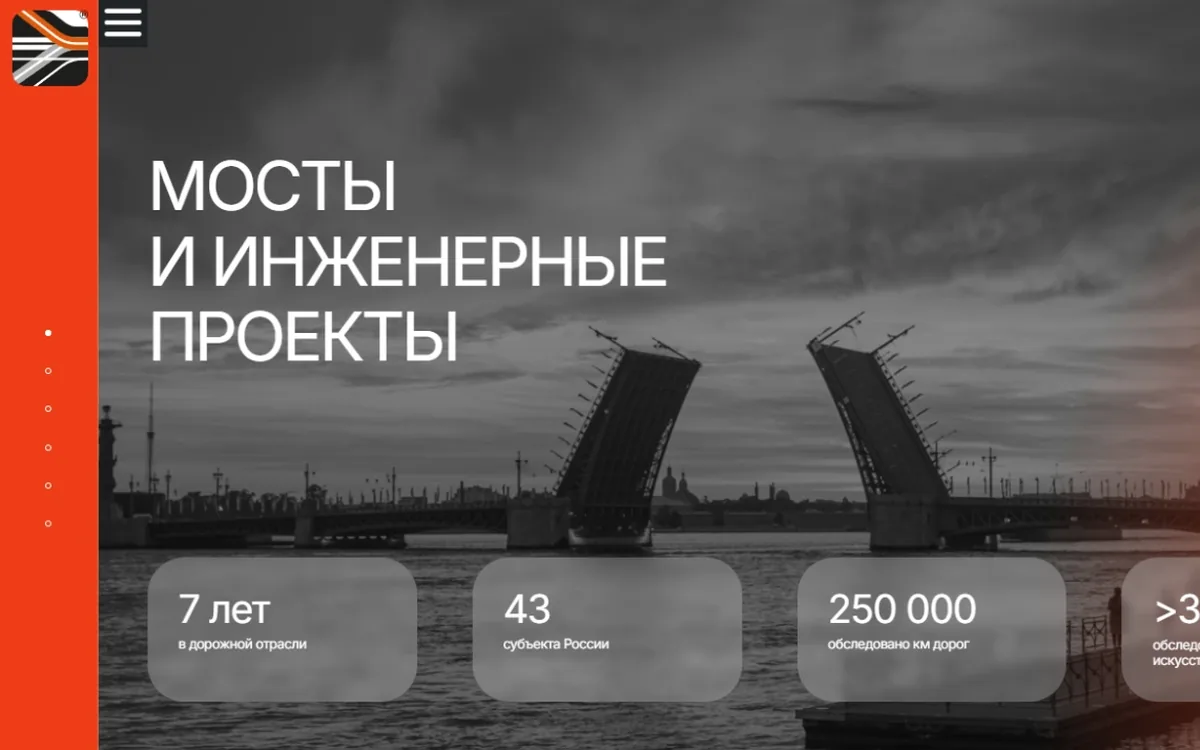
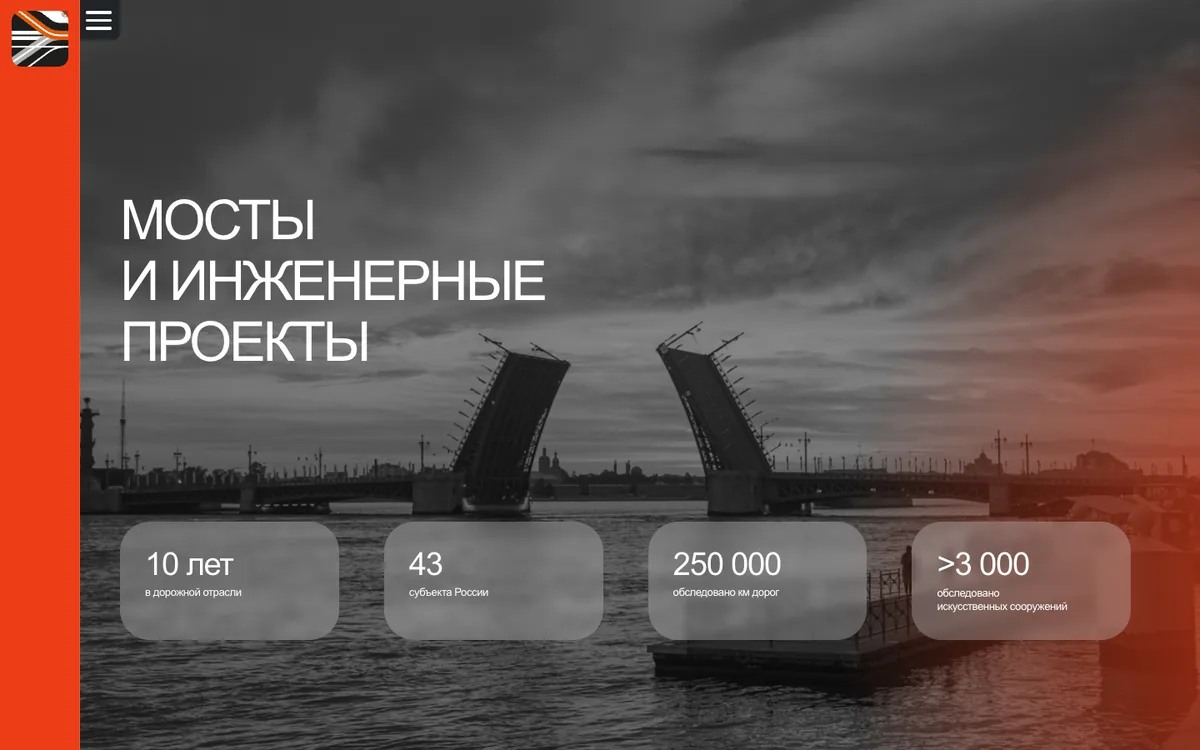
feat: ссылки на живые Tilda-сайты МИП и «Пространство»

diff --git a/src/content/cases-sites.ts b/src/content/cases-sites.ts
@@ -476,8 +476,7 @@ export const SITE_CASES: Case[] = [
     kinds: ['sites'],
     did: { ru: ['Сделал сайт на Тильде.'], en: ['Built the site on Tilda.'] },
     stack: ['Тильда'],
-    linkNote: { ru: 'Сайт закрыт, скрин из архива портфолио', en: 'The site is closed; screenshot from the portfolio archive' },
-    archive: true,
+    url: 'https://mip-sz.ru/',
     image: '/cases/mosty.webp',
   },
   {
@@ -500,8 +499,7 @@ export const SITE_CASES: Case[] = [
     kinds: ['sites'],
     did: { ru: ['Сделал сайт на Тильде.'], en: ['Built the site on Tilda.'] },
     stack: ['Тильда'],
-    linkNote: { ru: 'Сайт закрыт, скрин из архива портфолио', en: 'The site is closed; screenshot from the portfolio archive' },
-    archive: true,
+    url: 'https://prostranstvo-marketinga.ru/',
     image: '/cases/prostranstvo.webp',
   },
   {
